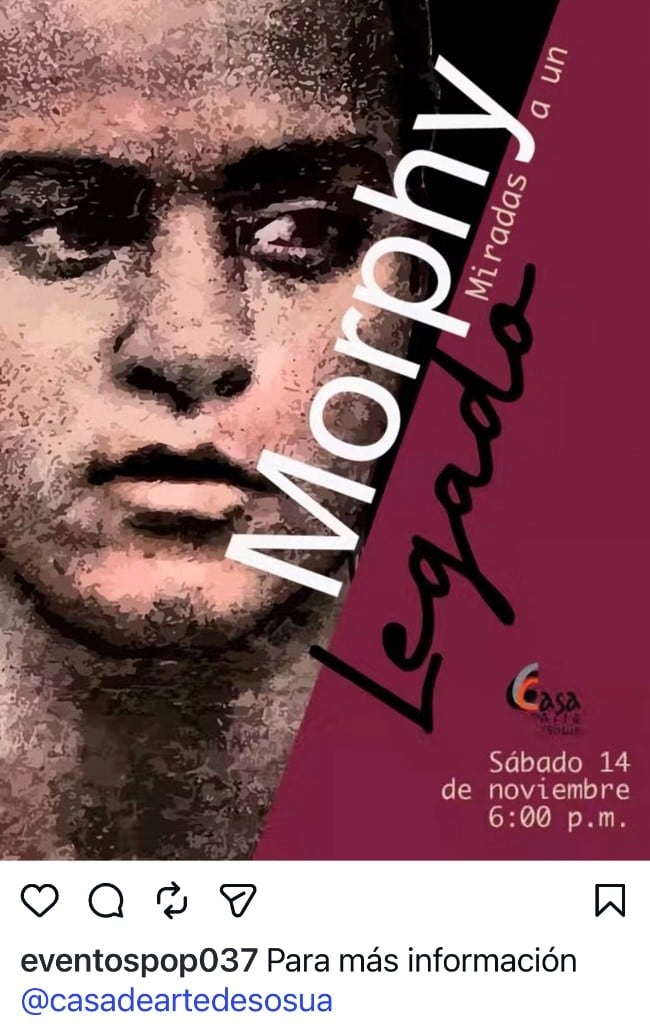
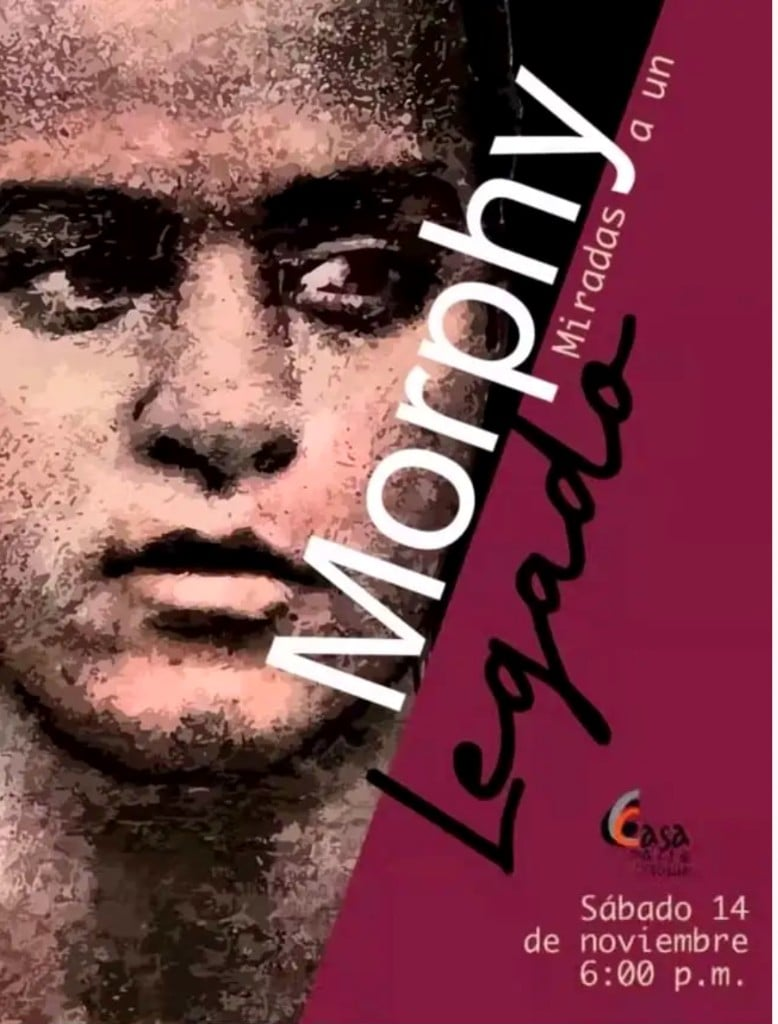
Pause All browse day sliders together and refresh Casa Arte hero.
Shared hover/focus pause across columns avoids competing autoplay; bump Morphy Legado flyer bytes in public and warehouse.

diff --git a/src/components/AllBrowseCalendar.tsx b/src/components/AllBrowseCalendar.tsx
@@ -35,8 +35,8 @@ const DAY_COL_STYLE = {
   maxWidth: BROWSE_DAY_COL_MAX_PX,
 } as const;
 
-/** Multi-event day autoplay — common carousel cadence. */
-const BROWSE_DAY_ROTATE_MS = 4000;
+/** Multi-event day autoplay cadence. */
+const BROWSE_DAY_ROTATE_MS = 5000;
 
 /** z-index stays inside the card’s `isolate` context — never above sticky chrome. */
 const DAY_SLIDE_BTN_CLASS =
@@ -70,6 +70,9 @@ interface BrowseDayColumnProps {
   pendingId: string | null;
   onNavigate: (id: string) => void;
   showEnlarge: boolean;
+  /** Shared across all day columns — hover/focus on one pauses every slider. */
+  paused: boolean;
+  setPaused: (paused: boolean) => void;
 }
 
 /**
@@ -86,13 +89,14 @@ function BrowseDayColumn({
   pendingId,
   onNavigate,
   showEnlarge,
+  paused,
+  setPaused,
 }: BrowseDayColumnProps) {
   const count = day.events.length;
   const multi = count > 1;
   const [index, setIndex] = useState(() =>
     multi ? Math.floor(Math.random() * count) : 0,
   );
-  const [paused, setPaused] = useState(false);
 
   useEffect(() => {
     if (!multi || paused) return;
@@ -213,6 +217,7 @@ export function AllBrowseCalendar({
   const headerRailRef = useRef<HTMLDivElement>(null);
   const bodyRailRef = useRef<HTMLDivElement>(null);
   const syncingScroll = useRef(false);
+  const [daySlidersPaused, setDaySlidersPaused] = useState(false);
 
   function syncRails(source: "header" | "body") {
     if (syncingScroll.current) return;
@@ -284,6 +289,8 @@ export function AllBrowseCalendar({
                   pendingId={pendingId}
                   onNavigate={onNavigate}
                   showEnlarge={showEnlarge}
+                  paused={daySlidersPaused}
+                  setPaused={setDaySlidersPaused}
                 />
               ))}
             </div>
